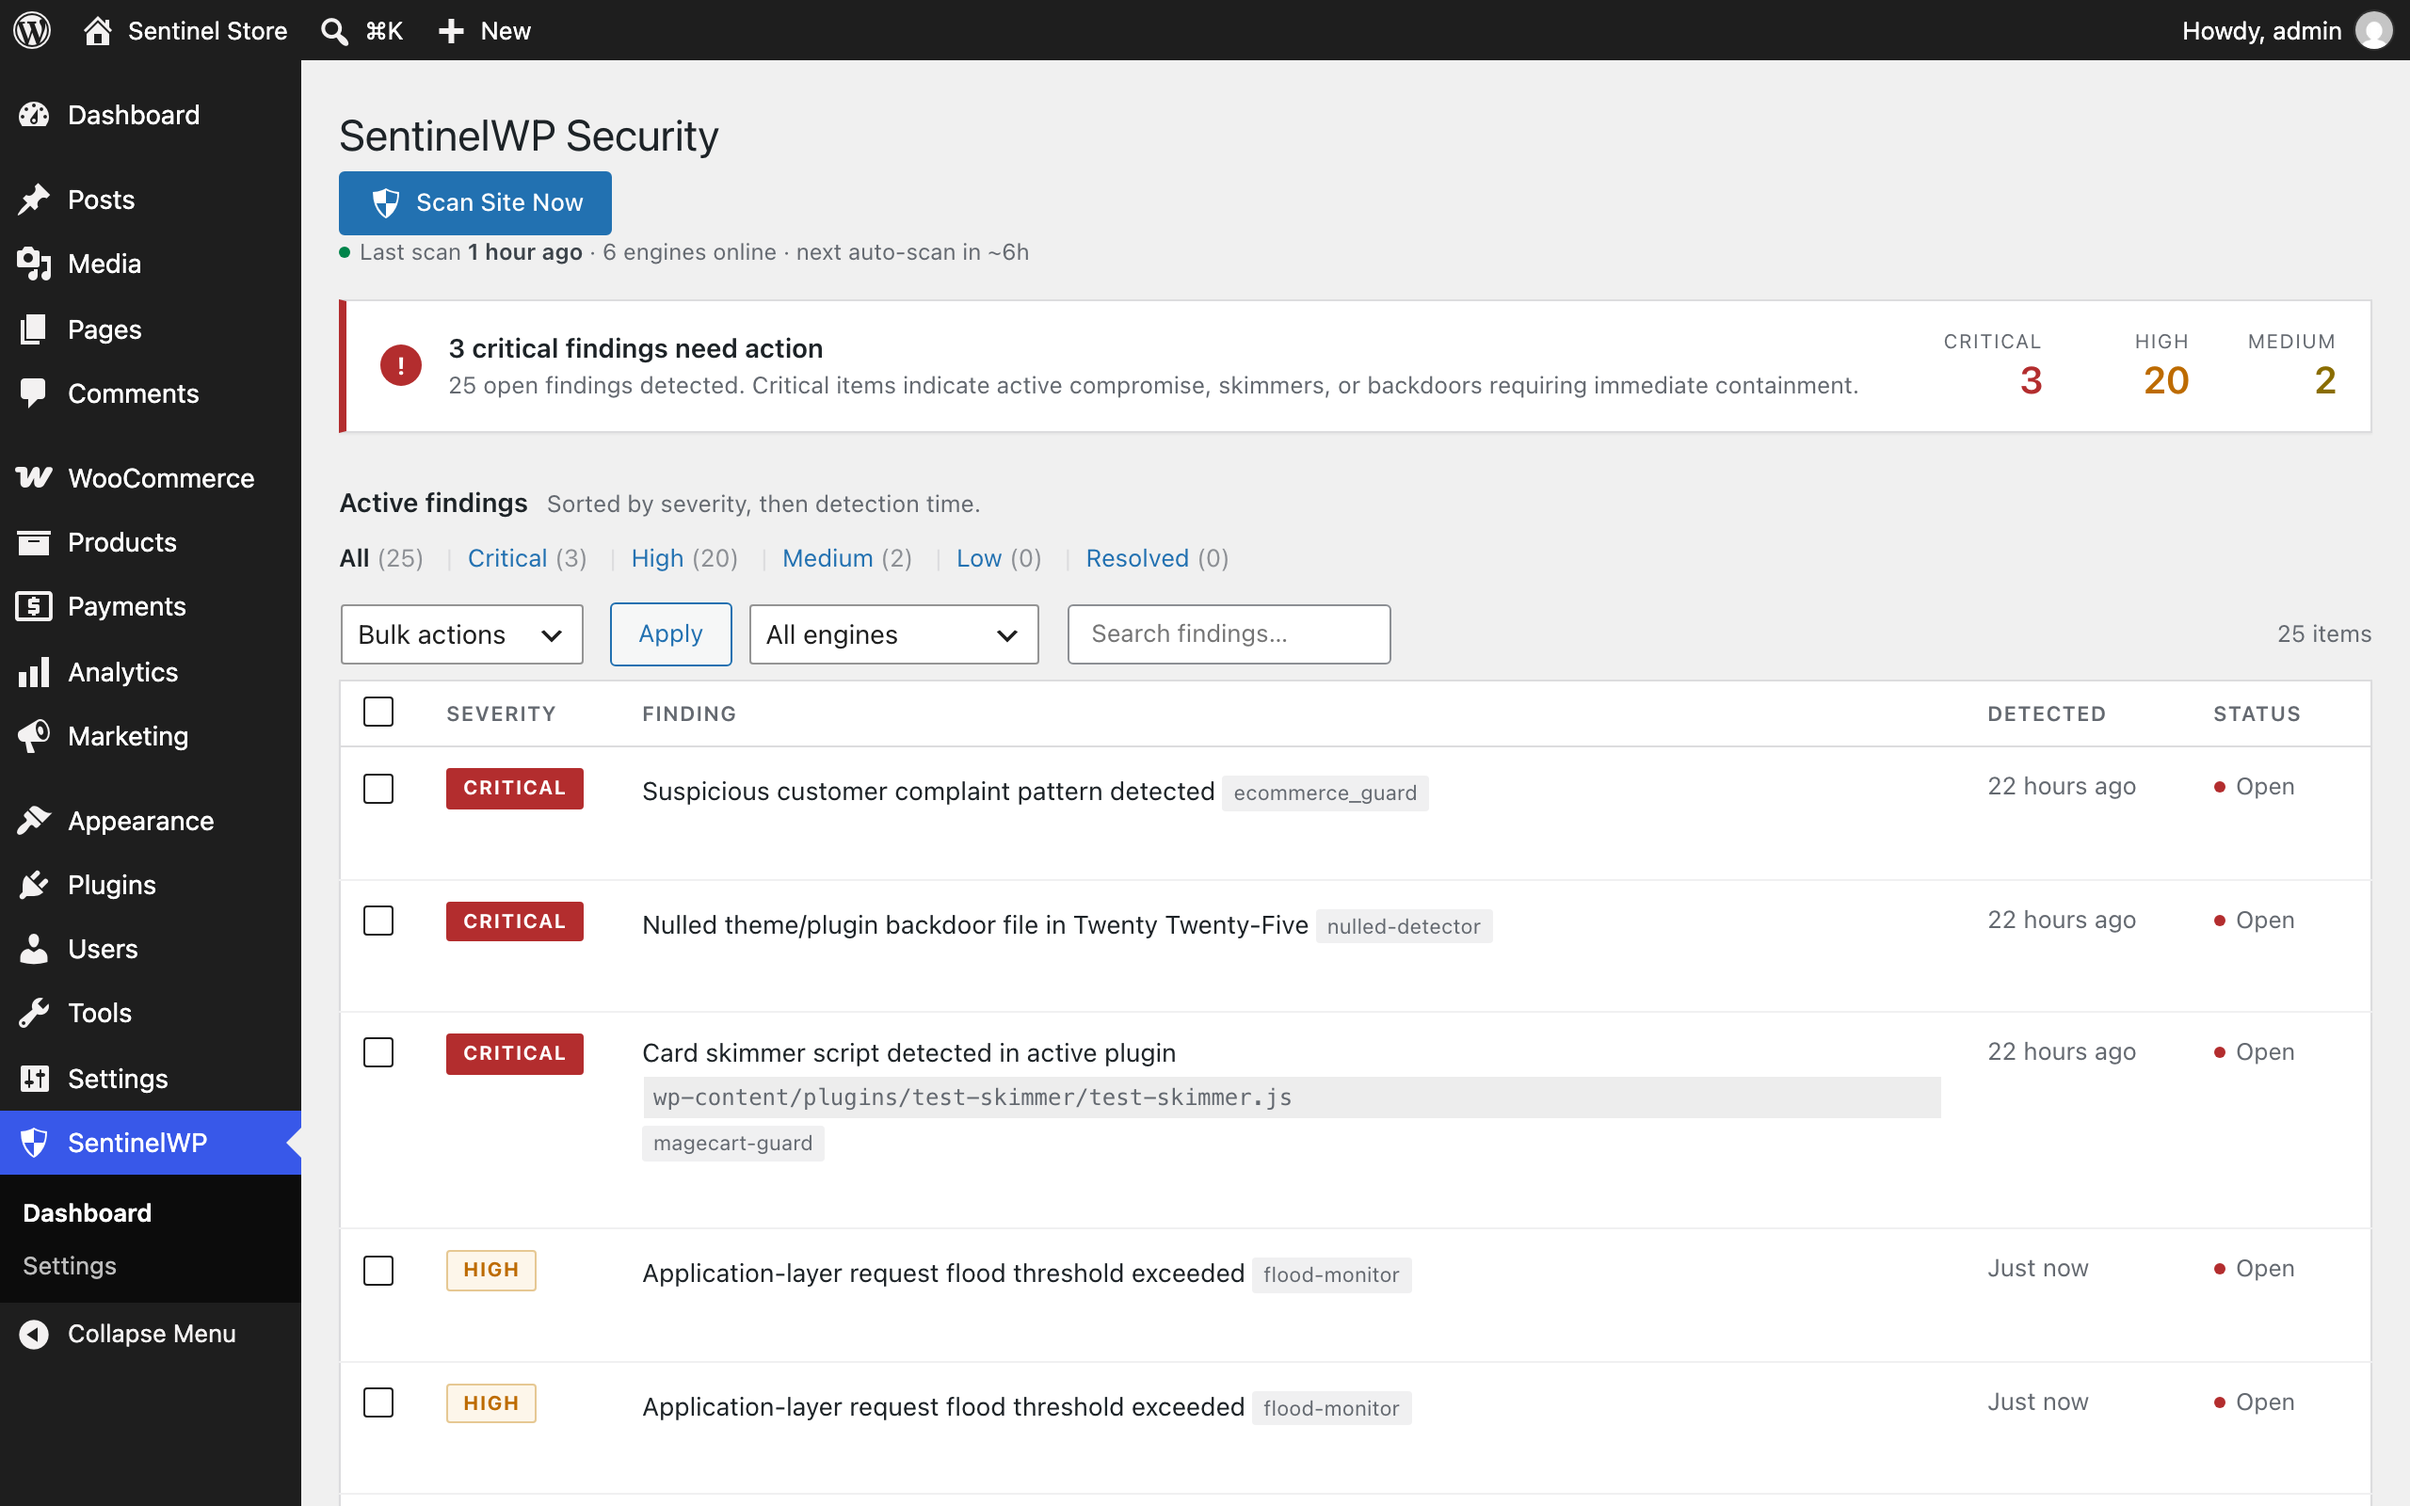
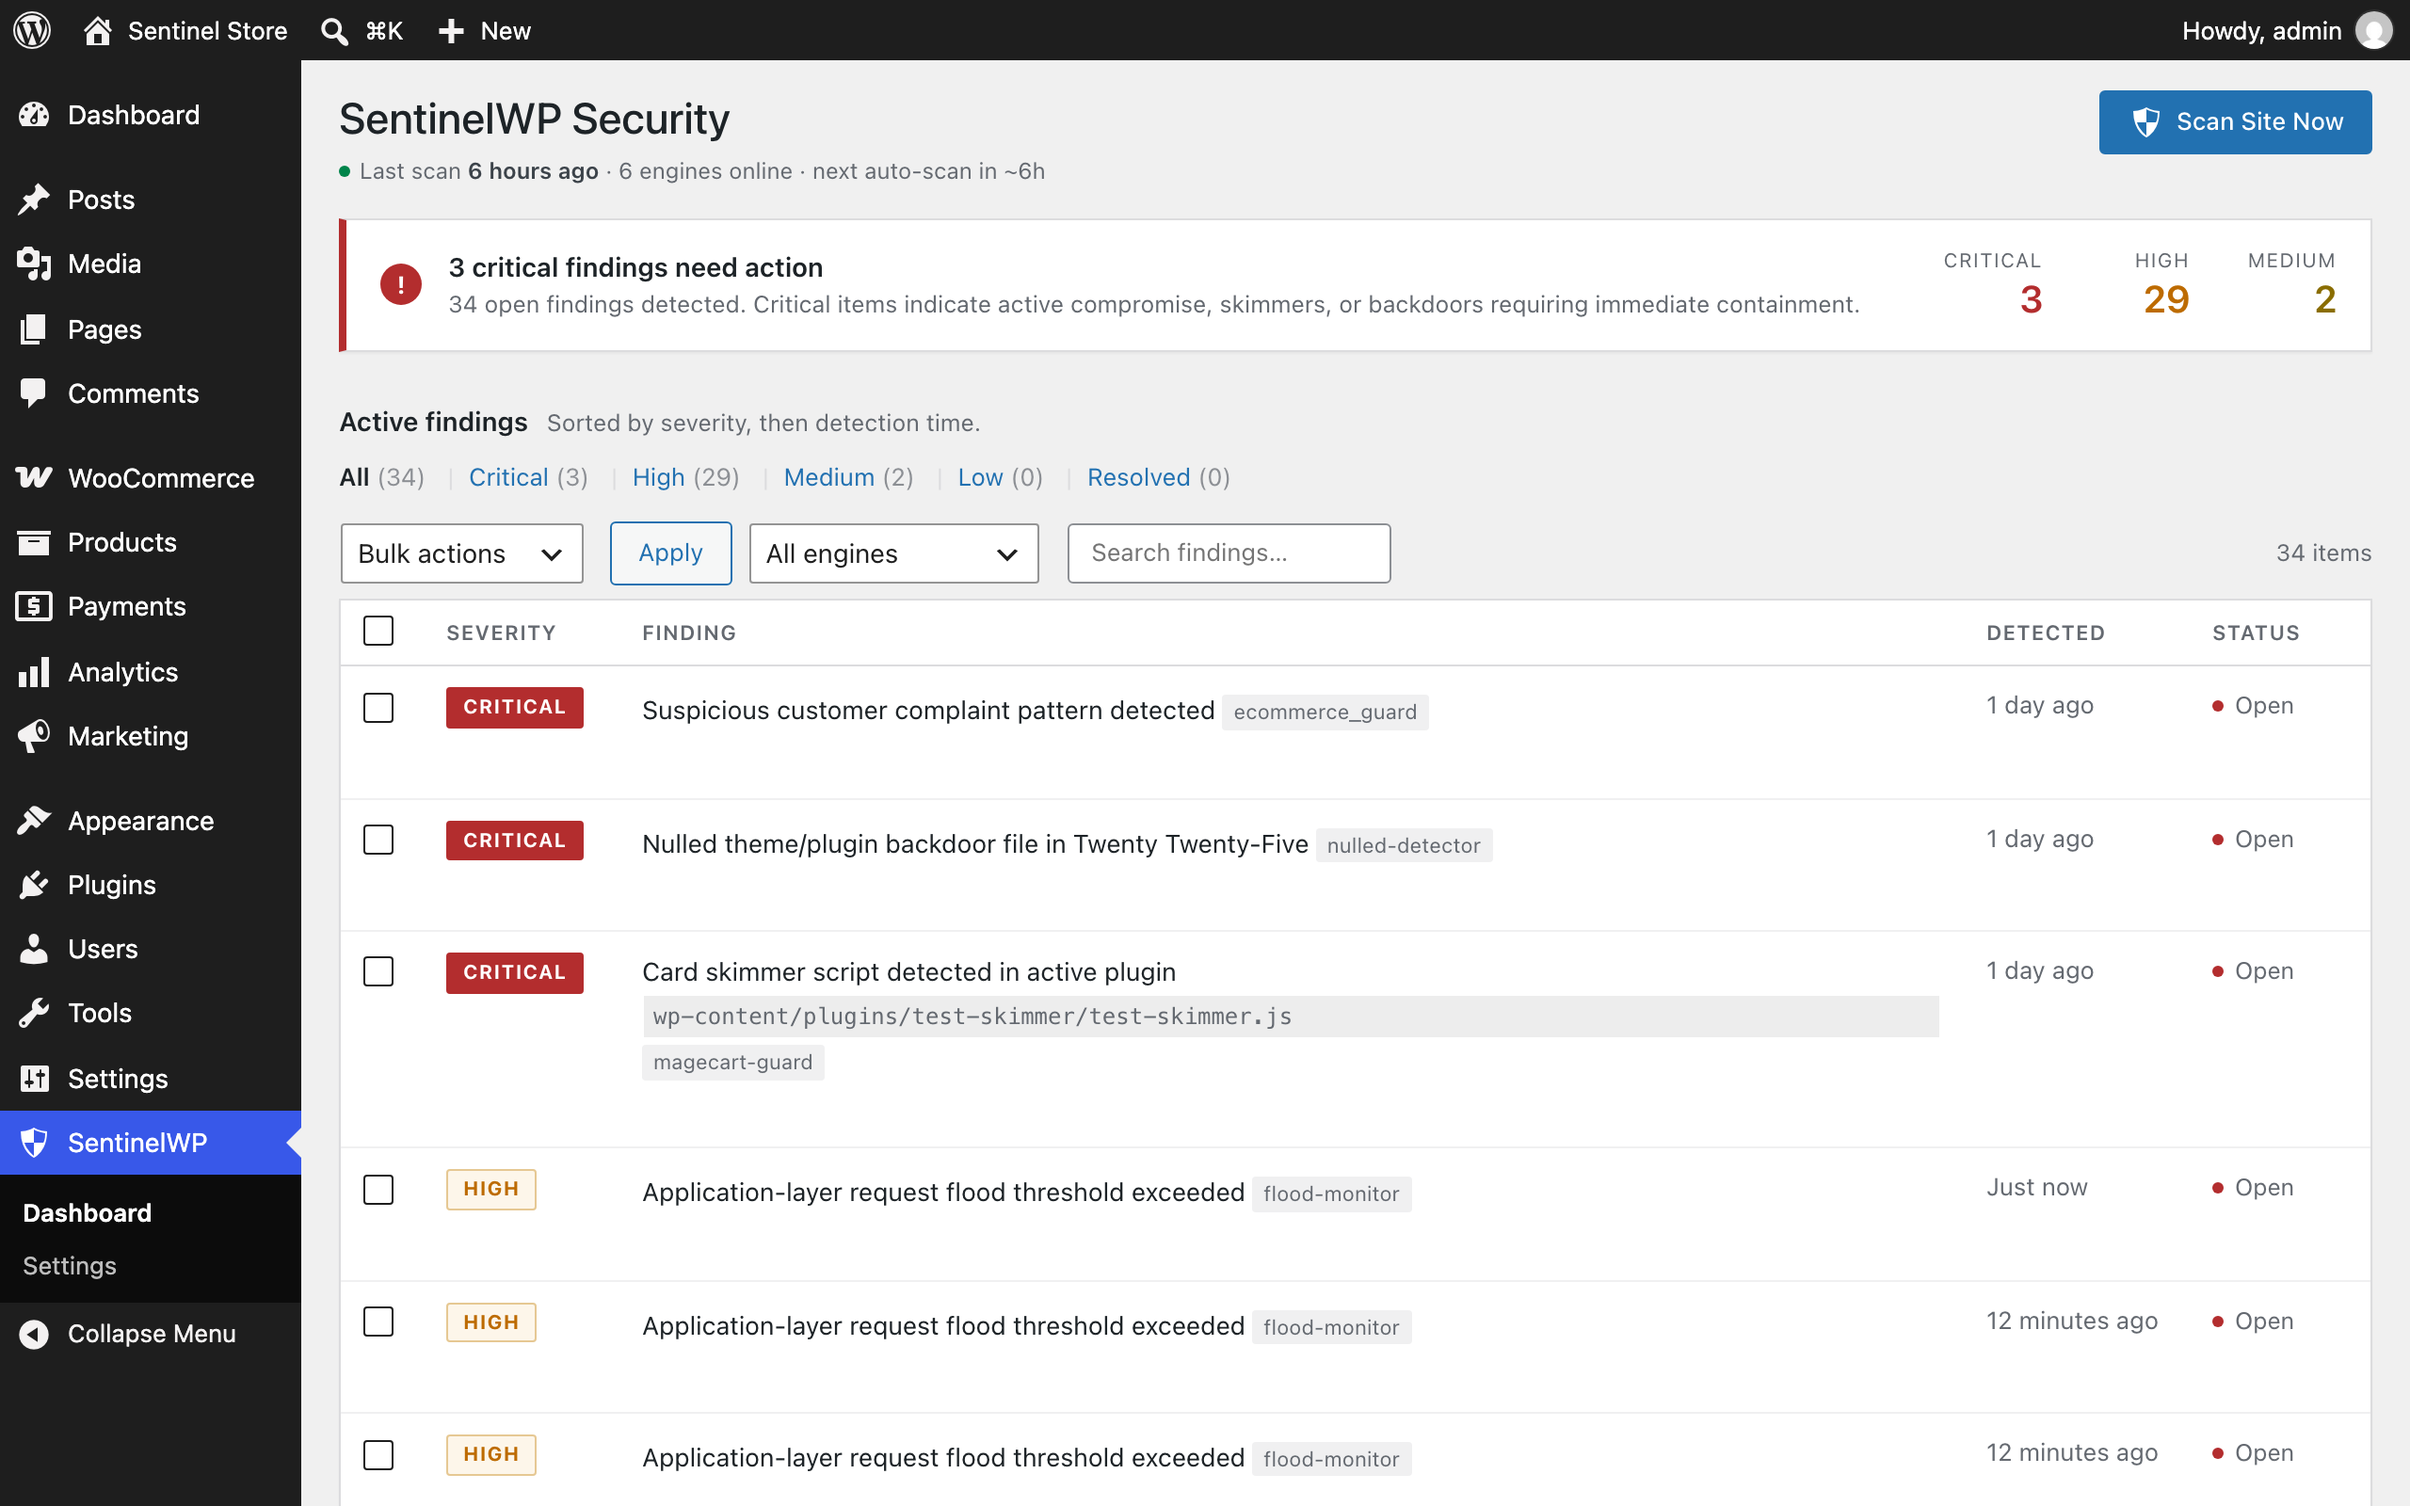
fix(ui): align scan action button to right and implement full responsive design for mobile and tablet

diff --git a/admin/css/admin.css b/admin/css/admin.css
@@ -38,22 +38,46 @@
 	box-sizing: border-box;
 }
 
-/* ---------- Header: Single compact row ---------- */
+/* ---------- Header: Single compact row / Flex Layout ---------- */
+.head,
+.sentinelwp-head,
 .pagehead {
 	display: flex;
-	align-items: center;
-	gap: 12px;
+	align-items: flex-start;
+	justify-content: space-between;
+	gap: 16px;
+	margin: 12px 0 16px;
 	flex-wrap: wrap;
-	margin: 8px 0 4px;
 }
 
+.sentinelwp-head-left {
+	flex: 1 1 auto;
+	min-width: 0;
+}
+
+.sentinelwp-head h1,
+.head h1,
 .pagehead h1 {
 	font-size: 23px;
-	font-weight: 400;
-	margin: 0;
+	font-weight: 500;
+	margin: 0 0 4px 0;
 	padding: 0;
 	line-height: 1.3;
 	color: var(--ink);
+}
+
+.sentinelwp-head-left .meta,
+.sentinelwp-head-left .sentinelwp-meta {
+	margin: 0;
+}
+
+.sentinelwp-actions,
+.head .actions,
+.pagehead .actions {
+	display: flex;
+	align-items: center;
+	gap: 10px;
+	flex-shrink: 0;
 }
 
 .tag {
@@ -474,12 +498,23 @@ input[type="search"] {
 	font-size: 12.5px;
 }
 
+.sentinelwp-table-responsive {
+	width: 100%;
+	overflow-x: auto;
+	-webkit-overflow-scrolling: touch;
+	margin-bottom: 8px;
+	border: 1px solid var(--line);
+	background: #ffffff;
+	box-shadow: 0 1px 1px rgba(0, 0, 0, .04);
+}
+
 table.sentinelwp-findings-table {
 	width: 100%;
 	border-collapse: collapse;
 	background: #ffffff;
-	border: 1px solid var(--line);
-	box-shadow: 0 1px 1px rgba(0, 0, 0, .04);
+	border: none;
+	margin: 0;
+	min-width: 600px;
 }
 
 thead th {
@@ -1022,18 +1057,130 @@ footer a:hover {
 	text-decoration: underline;
 }
 
-/* Responsive */
+/* Responsive Styles for Tablets and Mobile Devices */
 @media (max-width: 1100px) {
 	.grid { grid-template-columns: repeat(2, 1fr); }
 	.sentinelwp-detail-grid { grid-template-columns: 1fr; }
 }
 
+@media (max-width: 960px) {
+	.sentinelwp-wrap {
+		margin-right: 12px;
+	}
+	.alarm {
+		padding: 12px 14px;
+	}
+	.sentinelwp-head,
+	.head {
+		gap: 12px;
+	}
+}
+
 @media (max-width: 782px) {
-	.grid { grid-template-columns: 1fr; }
-	.alarm { flex-wrap: wrap; }
-	.alarm .num { margin-left: 0; width: 100%; justify-content: space-between; }
-	.pagehead { flex-direction: column; align-items: stretch; }
-	.pagehead .spacer { display: none; }
-	.sentinelwp-sticky-save { left: 0; }
+	.sentinelwp-wrap {
+		margin: 12px 10px 40px 0;
+	}
+	.head,
+	.sentinelwp-head,
+	.pagehead {
+		flex-direction: column;
+		align-items: stretch;
+		gap: 12px;
+	}
+	.sentinelwp-actions,
+	.head .actions {
+		width: 100%;
+	}
+	.sentinelwp-actions .btn,
+	.head .actions .btn {
+		width: 100%;
+		justify-content: center;
+		padding: 10px 16px;
+		font-size: 14px;
+	}
+	.grid {
+		grid-template-columns: 1fr;
+	}
+	.alarm {
+		flex-direction: column;
+		align-items: flex-start;
+		gap: 12px;
+	}
+	.alarm .num {
+		margin-left: 0;
+		width: 100%;
+		display: grid;
+		grid-template-columns: repeat(3, 1fr);
+		gap: 8px;
+		border-top: 1px solid rgba(0, 0, 0, 0.08);
+		padding-top: 10px;
+		text-align: center;
+	}
+	.alarm .num .k {
+		font-size: 10px;
+	}
+	.alarm .num .v {
+		font-size: 20px;
+	}
+	.tablenav {
+		flex-direction: column;
+		align-items: stretch;
+		gap: 8px;
+	}
+	.tablenav select,
+	.tablenav input[type="search"],
+	.tablenav .btn {
+		width: 100%;
+		box-sizing: border-box;
+		min-height: 38px;
+	}
+	.tablenav .count {
+		margin-left: 0;
+		text-align: right;
+		width: 100%;
+	}
+	.subsub {
+		display: flex;
+		flex-wrap: wrap;
+		gap: 4px 8px;
+		line-height: 1.8;
+	}
+	.sentinelwp-incident-header {
+		flex-direction: column;
+		align-items: flex-start;
+		gap: 6px;
+	}
+	.sentinelwp-sticky-save {
+		left: 0;
+	}
+	.sentinelwp-drawer-actions {
+		flex-direction: column;
+		align-items: stretch;
+	}
+	.sentinelwp-drawer-actions .btn {
+		width: 100%;
+		justify-content: center;
+	}
+	.sentinelwp-postbox {
+		margin-bottom: 16px;
+	}
+}
+
+@media (max-width: 480px) {
+	.alarm .num {
+		grid-template-columns: 1fr;
+		gap: 6px;
+	}
+	.alarm .num .sentinelwp-alarm-filter {
+		display: flex;
+		justify-content: space-between;
+		align-items: center;
+		padding: 6px 10px;
+		background: rgba(0, 0, 0, 0.02);
+		border-radius: 4px;
+	}
+	.alarm .num .v {
+		font-size: 16px;
+	}
 }
 

diff --git a/admin/class-admin.php b/admin/class-admin.php
@@ -129,7 +129,15 @@ class SentinelWP_Admin {
 		<div class="wrap sentinelwp-wrap sentinelwp-dashboard" id="sentinelwp-dashboard">
 			<!-- Top Action Header -->
 			<div class="head sentinelwp-head">
-				<h1><?php esc_html_e( 'SentinelWP Security', 'sentinelwp-security' ); ?></h1>
+				<div class="sentinelwp-head-left">
+					<h1><?php esc_html_e( 'SentinelWP Security', 'sentinelwp-security' ); ?></h1>
+					<p class="meta sentinelwp-meta">
+						<span class="dot sentinelwp-dot"></span>Last scan <b><?php echo esc_html( $relative_last_scan ); ?></b> &middot; <?php 
+						/* translators: %d: active engine count */
+						echo esc_html( sprintf( __( '%d engines online', 'sentinelwp-security' ), $engines_online ) ); 
+						?> &middot; <?php esc_html_e( 'next auto-scan in ~6h', 'sentinelwp-security' ); ?>
+					</p>
+				</div>
 				<div class="actions sentinelwp-actions">
 					<button type="button" class="btn btn-primary sentinelwp-btn sentinelwp-btn-primary" id="sentinelwp-btn-scan">
 						<span class="dashicons dashicons-shield"></span>
@@ -137,12 +145,6 @@ class SentinelWP_Admin {
 					</button>
 				</div>
 			</div>
-			<p class="meta sentinelwp-meta">
-				<span class="dot sentinelwp-dot"></span>Last scan <b><?php echo esc_html( $relative_last_scan ); ?></b> &middot; <?php 
-				/* translators: %d: active engine count */
-				echo esc_html( sprintf( __( '%d engines online', 'sentinelwp-security' ), $engines_online ) ); 
-				?> &middot; <?php esc_html_e( 'next auto-scan in ~6h', 'sentinelwp-security' ); ?>
-			</p>
 
 			<!-- Scan Progress Bar (Revealed during scan) -->
 			<div class="sentinelwp-progress-bar" id="sentinelwp-progress-bar" style="display:none;" aria-live="polite" role="progressbar">
@@ -324,6 +326,7 @@ class SentinelWP_Admin {
 			</div>
 
 			<!-- Findings List Table -->
+			<div class="sentinelwp-table-responsive">
 			<table class="sentinelwp-findings-table" id="sentinelwp-table">
 				<thead>
 					<tr>
@@ -475,6 +478,7 @@ class SentinelWP_Admin {
 				<?php endforeach; ?>
 				</tbody>
 			</table>
+			</div>
 
 			<!-- Tablenav Bottom -->
 			<div class="tablenav bottom sentinelwp-tablenav sentinelwp-tablenav-bottom">
